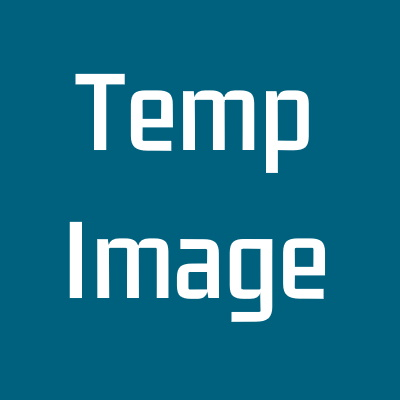
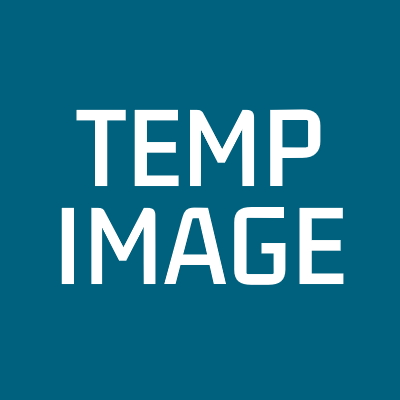
Added build to git ignore, changed default image

Changed region(s): [[0.15, 0.51, 0.87, 0.81], [0.18, 0.18, 0.81, 0.48]]

diff --git a/src/HelperFunctions/serverHost.js b/src/HelperFunctions/serverHost.js
@@ -7,7 +7,8 @@
 	// line 84		- Use Fetch for image GET
 
 // Server host is the URL to the Node Server - Change once here when Server moves
-const serverHost = 'https://foodgroupsserver.herokuapp.com/';
+const serverHost = 'https://food-groups.com/api';
+const corsPolicy = 'cors';
 
 	/* Set Session Helper */
 /* If given a userID and sessionID, add it to sessionStorage, otherwise, remove from sessionStorage */
@@ -25,9 +26,11 @@ export const setSession = (payload = null) => {
 /* Send Body to the Server Path, run success/error handlers if provided */
 export const postFetch = async (path, body, successHandler = null, failureHandler = null) => {
 	// Initialization settings with a stringified body (always an object), for Fetch
+	console.log(body);
+	
 	const init = {
 		method: 'POST',					headers: { 'Content-Type': 'application/json' },
-		body: JSON.stringify(body),		mode: 'cors'
+		body: JSON.stringify(body),		mode: corsPolicy
 	};
 
 	// Send request to Server and wait for response
@@ -50,7 +53,7 @@ export const deleteFetch = async (path, body, successHandler = null, failureHand
 	// Initialization settings with a stringified body (always an object), for Fetch
 	const init = {
 		method: 'DELETE',				headers: { 'Content-Type': 'application/json' },
-		body: JSON.stringify(body),		mode: 'cors'
+		body: JSON.stringify(body),		mode: corsPolicy
 	};
 
 	// Send request to Server and wait for response
@@ -71,7 +74,7 @@ export const deleteFetch = async (path, body, successHandler = null, failureHand
 /* Uploads image to server */
 export const uploadImagePost = async (path, formData) => {
 	// Initialization settings with a stringified body (always an object), for Fetch
-	const init = { method: 'POST', body: formData, mode: 'cors'	};
+	const init = { method: 'POST', body: formData, mode: corsPolicy	};
 
 	const response = await fetch(`${serverHost}/${path}`, init);
 	const jsonResponse = response.ok ? await response.json() : { response: response };
